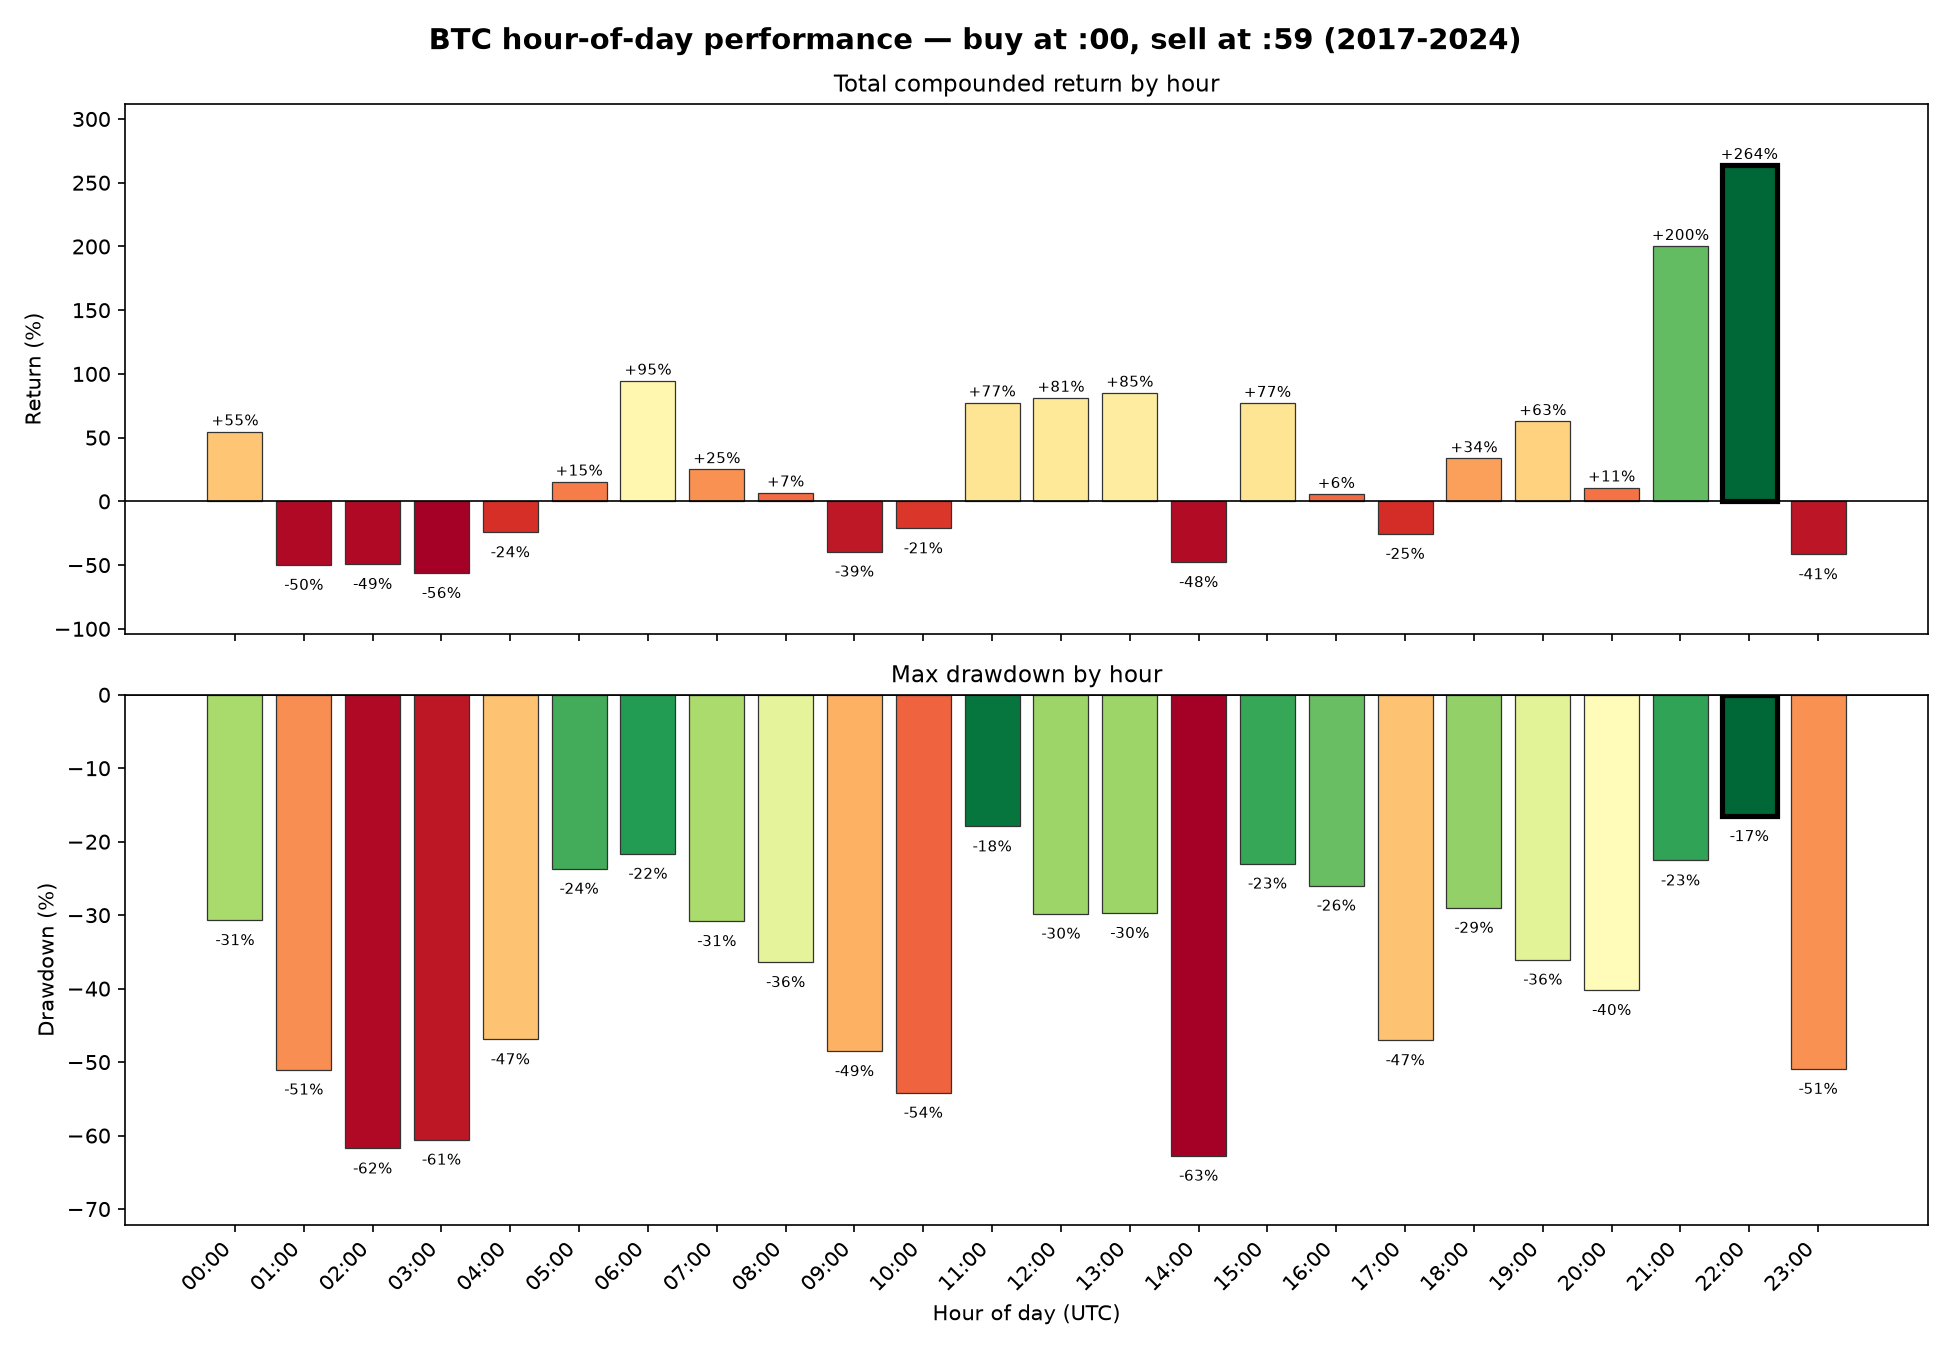
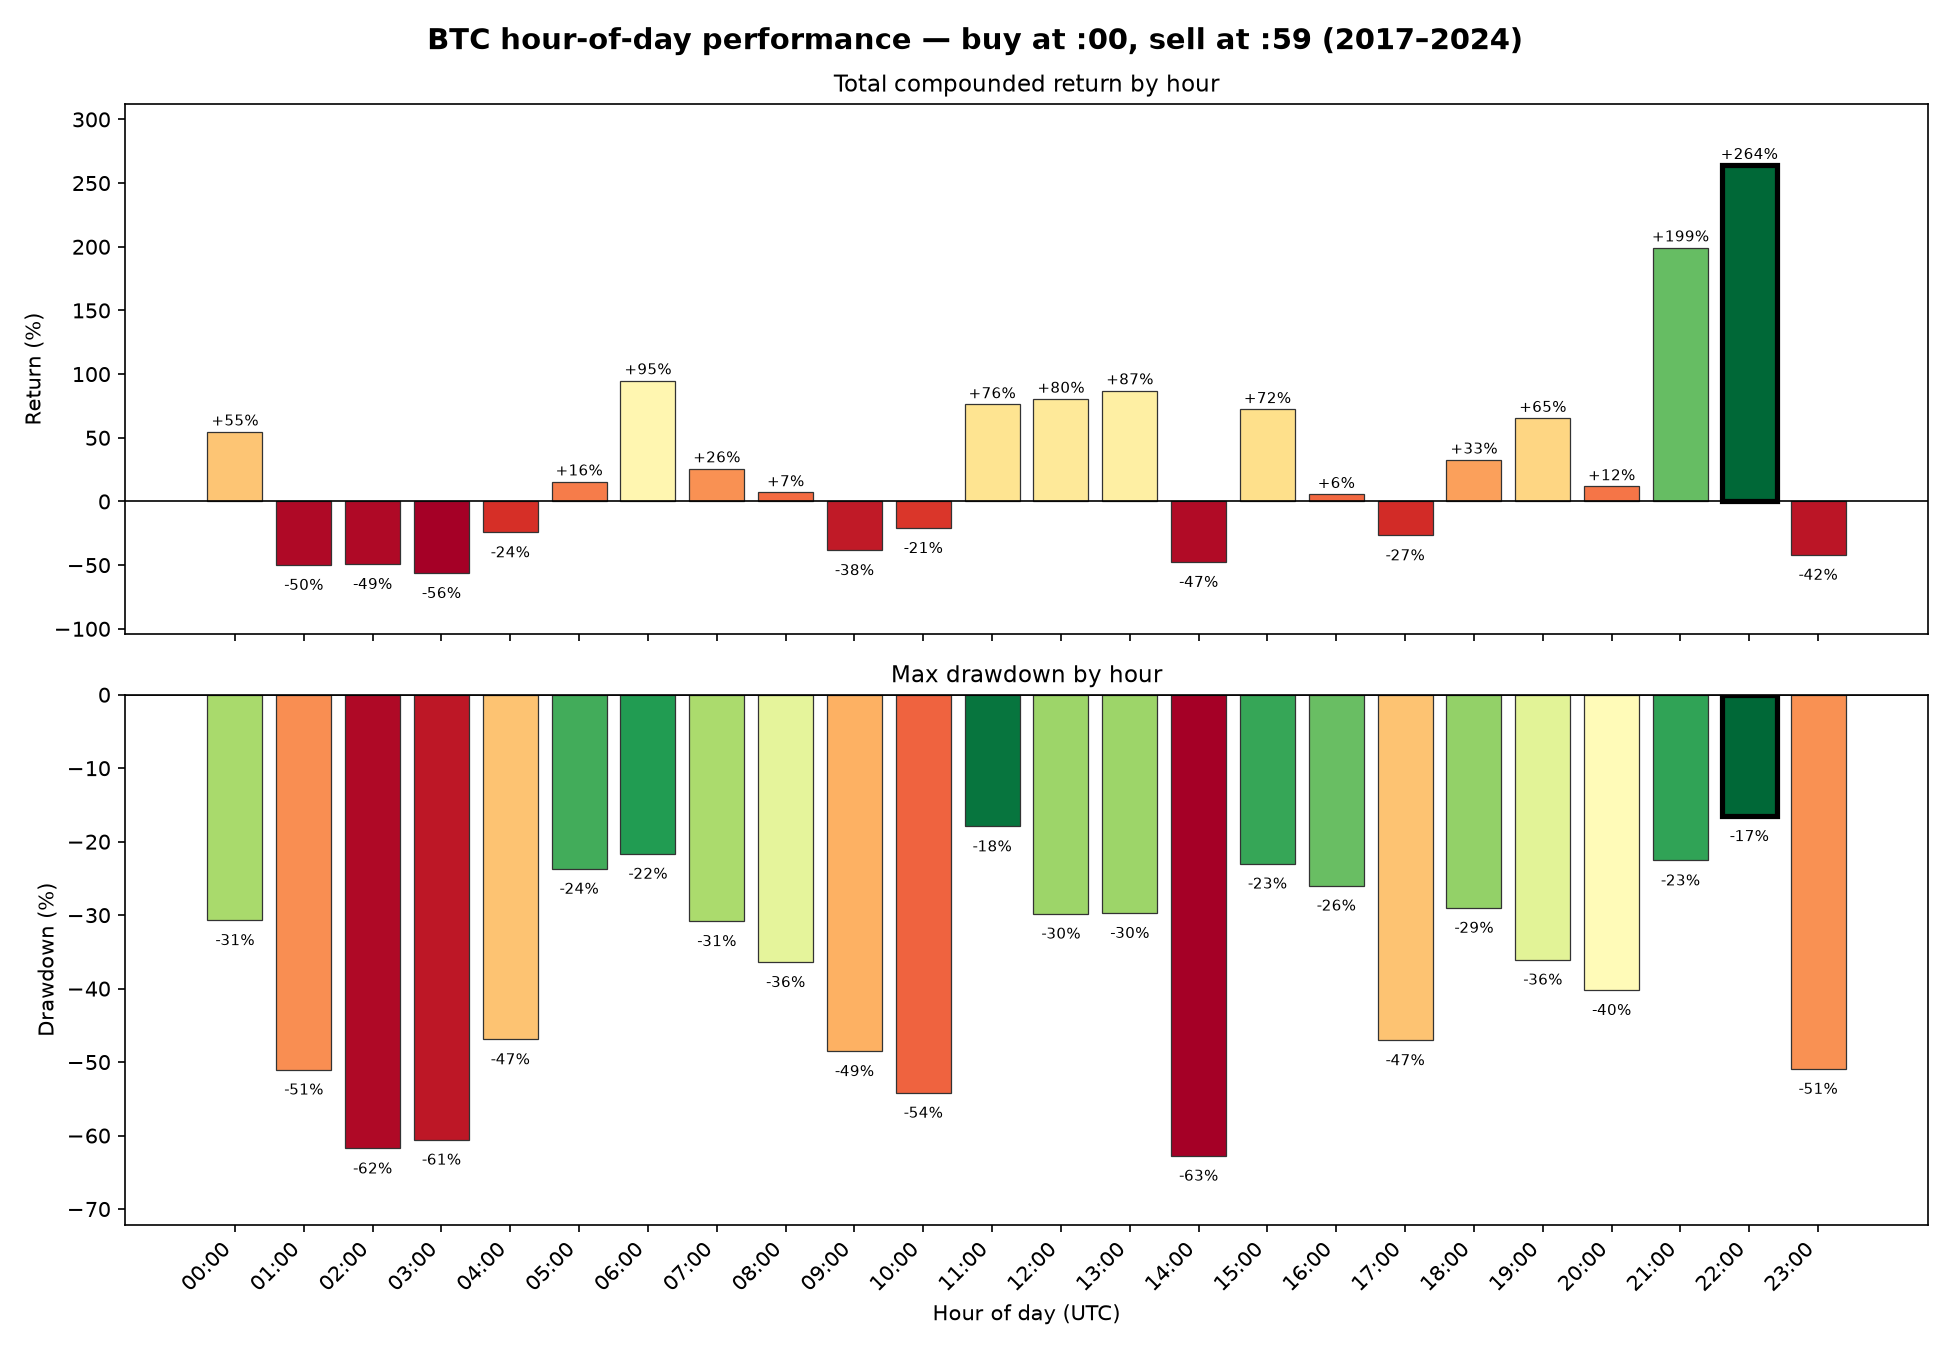
after review

diff --git a/README.md b/README.md
@@ -22,7 +22,7 @@ otherwise sets up its own virtualenv with `python3`. Safe to re-run.
 ## Result
 
 **Hour 22:00–22:59 UTC wins both questions** — the highest compounded return  
-(**+263.7%**) *and* the shallowest worst-case drawdown (**-16.5%**, the smallest  
+(**+264.0%**) *and* the shallowest worst-case drawdown (**-16.5%**, the smallest  
 magnitude of all 24 hours) — by a real margin over the runner-up on each metric (21:00 on  
 return, 11:00 on drawdown).
 
@@ -40,10 +40,11 @@ profiles/profiles.yml     repo-local dbt profile (via DBT_PROFILES_DIR); never t
 requirements.txt          dbt-postgres
 alpaca_assignment/        the dbt project
   models/staging/         stg_btc_ticks — typed, deduplicated, 1:1 with raw source
-  models/intermediate/    the pivot → return → compounding steps, one model each
+  models/intermediate/    coverage/gap detection, then the pivot → return → compounding
+                          steps, one model each
   models/marts/           mart_daily_hourly_performance — the reusable fact table
-  analyses/                the two final queries that actually answer the prompt
-  tests/                  custom data-quality tests (grain checks, row-count checks)
+  analyses/                the two final queries that answer the prompt, plus a gap report
+  tests/                  custom data-quality tests (grain, row-count, gap-count canary)
 ```
 
 ## Design decisions
@@ -64,26 +65,102 @@ This submission optimizes for the grader's time instead.
 
 ## Data quality findings
 
-Two real issues turned up by actually loading and testing the data, not just inspecting  
-it:
+Two kinds of real issues turned up by actually loading and testing the data, not just  
+inspecting it:
 
 - **15 timestamps** have 9 byte-identical duplicate rows each, right before a repeating  
 "restart" pattern in the source seconds. `stg_btc_ticks` dedupes these losslessly.
-- **30 hours** (out of ~58,600 in range) are missing either their `:00` or `:59` tick  
-entirely — a true single-row gap, not just a zero-volume carry-forward.  
-`int_hourly_prices` drops these hours rather than computing a return off a missing  
-price.
+- **163 hours** (out of 61,632 in the full 2017-08-17 → 2024-08-27 range) are missing  
+either their `:00` or `:59` tick entirely — a true gap, not just a zero-volume  
+carry-forward — spread across **34 separate dates**, not just the partial first day.  
+The largest is a genuine **~35-hour outage spanning 2018-02-08 → 2018-02-09** (almost the  
+entire two days); the rest are shorter, scattered multi-hour gaps throughout the range.  
+An earlier pass at this only checked the first day and one narrow slice of the range and  
+found 30 — a real undercount, caught by actually generating the full expected  
+`(date, hour)` calendar and diffing it against what the source contains, instead of  
+spot-checking. `int_hourly_prices` drops these hours rather than computing a return off a  
+missing price; the full list is queryable via `int_hourly_coverage` /  
+`analyses/data_quality_gap_report.sql` (see below) instead of living only in this README.
 
-Both are covered by dbt tests, so a future data refresh that reintroduces either issue  
-(or a new one shaped like it) fails the build instead of silently shipping a wrong  
+Both issues are covered by dbt tests, so a future data refresh that reintroduces either  
+one (or a new one shaped like it) fails the build instead of silently shipping a wrong  
 answer.
+
+**How gaps are detected — no hardcoded dates.** An earlier version of `stg_btc_ticks`  
+excluded the partial first day with a literal `date > date '2017-08-17'`. That was fixed  
+on two grounds, not just style:
+
+1. It only ever handled the *one* gap someone happened to already know about — it did  
+   nothing for the other 33 affected dates, including the 35-hour outage above.
+2. It was actively wrong: 2017-08-17 has data starting at 04:00:28, so only hours 0-3 are  
+   genuinely missing and hour 4 is missing just its buy tick — but the old filter threw  
+   away the *entire day*, including **19 hours (05:00-23:00) that have perfectly complete,  
+   valid data**. Removing the hardcoded cutoff recovered those 19 hours: the mart went  
+   from 61,450 rows to 61,469.
+
+Completeness is now derived, not declared: `int_hourly_coverage` builds the full expected  
+`(date, hour)` calendar between the source's own earliest and latest dates, left-joins the  
+actual ticks onto it, and flags any slot missing either tick — including ones with *zero*  
+ticks at all, like most of the 2018-02-08/09 outage, which a plain `group by` would miss  
+entirely (there's no row to group if nothing was ever recorded). `int_hourly_prices` keeps  
+its own inline completeness check for a documented performance reason (see below) rather  
+than joining against this model, but both agree on the same 163 gap-hours. A canary test  
+(`assert_gap_hours_within_expected_bound`) fails the build if that count ever jumps well  
+past its current, documented range — a signal that a future data refresh degraded  
+significantly, not just picked up one more historical gap.
+
+### Why gaps matter more here than in most datasets
+
+This is financial time-series data feeding a compounding backtest, which makes "missing a  
+day" a materially different problem than it would be for, say, a dashboard of page views:
+
+- **Compounding amplifies, it doesn't average out.** Each hour's headline number is a  
+  *product* of `(1 + r)` across every day in its series, not a mean. A single wrong or  
+  fabricated return doesn't get diluted by the other ~2,500 days the way it would in an  
+  average — it permanently rescales every subsequent day's equity value for the rest of  
+  the multi-year series.
+- **Gaps are unlikely to be random with respect to volatility.** Exchange outages,  
+  data-provider hiccups, and API rate-limiting historically cluster around periods of  
+  unusually high volume or volatility (flash crashes, major news, liquidation cascades) —  
+  precisely the periods most likely to produce the largest single-day moves. If that  
+  pattern holds here, dropping gap-hours doesn't give a random sample of missing data; it  
+  systematically removes tail events, which is exactly the kind of quiet distortion that  
+  can flip a "biggest return" or "lowest drawdown" ranking — the two questions this  
+  project exists to answer.
+- **Differential sample sizes make the hour-vs-hour comparison itself less clean.** The  
+  163 gap-hours are not evenly spread across the 24 hours of day — some hours lose more  
+  trading days than others (see `trading_days` in the `analyses/` output). Comparing hour  
+  A's compounded return over, say, 2,565 days against hour B's over 2,540 days is not  
+  perfectly apples-to-apples, even before asking whether the missing days would have  
+  helped or hurt either one.
+
+### Three approaches to handling the gaps, and what this project does
+
+1. **Exclude gap-hours (used here).** Compute returns only from observed prices. Simple  
+   and fabricates nothing, but silently inherits the risks above unless paired with (3).
+2. **Impute missing prices** (e.g. forward-fill). Keeps every hour's sample size equal, but  
+   manufactures a synthetic 0% return right where the real move might have been biggest —  
+   too risky for a drawdown metric specifically. Not used.
+3. **Flag gaps as queryable facts, don't just drop or fill silently.** `int_hourly_coverage`  
+   and `analyses/data_quality_gap_report.sql` make every exclusion inspectable, and  
+   `trading_days` in the answer queries shows the sample size behind each hour's ranking.
+
+This project uses **(1) with (3) layered on top**: gaps are excluded from the headline  
+numbers, but the exclusion itself is queryable and tested, not a one-time finding left to  
+go stale.
 
 ## Model design
 
-Standard staging → intermediate → marts layering, each layer with one job. The one  
-choice worth calling out here: `mart_daily_hourly_performance` is **not** aggregated up  
-to one row per hour-of-day — it stays at `(date, hour)` grain (~61,450 rows), and the  
-hour-of-day rollup happens in `analyses/`, not in the mart. Two reasons:
+Standard staging → intermediate → marts layering, each layer with one job. Staging and  
+intermediate models are views (cheap, always reflect the latest raw data); marts are  
+tables (queried repeatedly downstream) — except `int_hourly_prices`, which is deliberately  
+overridden to a table too. See its own SQL comment and the "data quality findings" section  
+above for why: that's the one model whose filter Postgres can badly misjudge the size of  
+when it's a view, and every model downstream inherits whichever estimate it gets.
+
+The one choice worth calling out here: `mart_daily_hourly_performance` is **not**  
+aggregated up to one row per hour-of-day — it stays at `(date, hour)` grain (~61,469 rows),  
+and the hour-of-day rollup happens in `analyses/`, not in the mart. Two reasons:
 
 1. **No mart resolves the prompt's questions directly.** `analyses/` — dbt's mechanism
   for a versioned, compilable query that creates no relation — holds the two rollups;  
